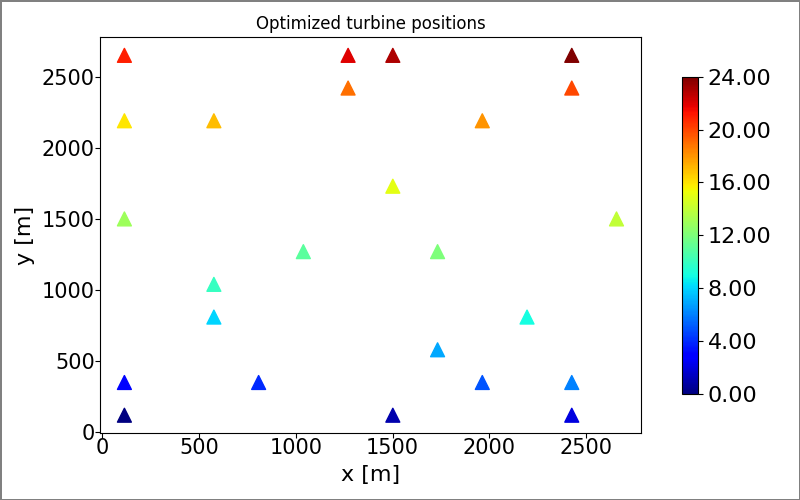
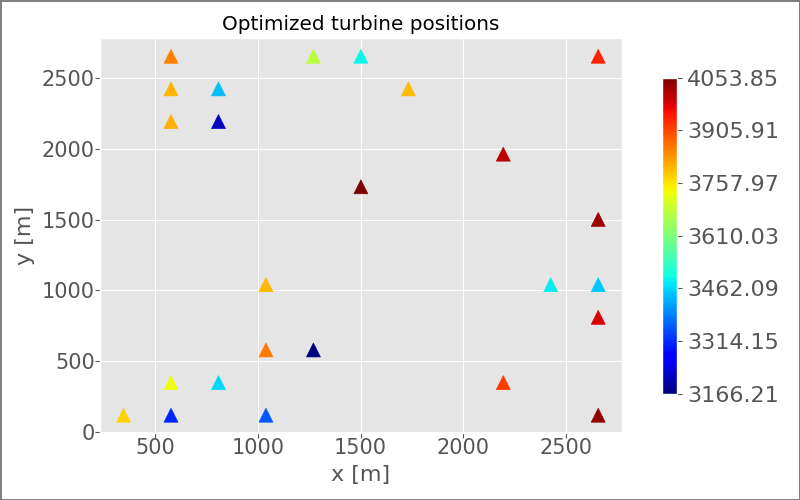
Added project dependencies and fixed power related error in fitness function

diff --git a/README.md b/README.md
@@ -1,2 +1,16 @@
 # WFLOP_Genetic_Algorithm
 Wind farm layout optimisation genetic algorithm (WFLOP) Python library
+
+## SETUP
+
+cd to the directory where you saved the project. Ensure requirements.txt is in the same directory.
+
+Activate your virtual environment if you have not done so already.
+
+Run below command to install the project dependencies:
+
+`pip install -r requirements.txt`
+
+Run following command to see the output in console and generate plots:
+
+`python main.py`
